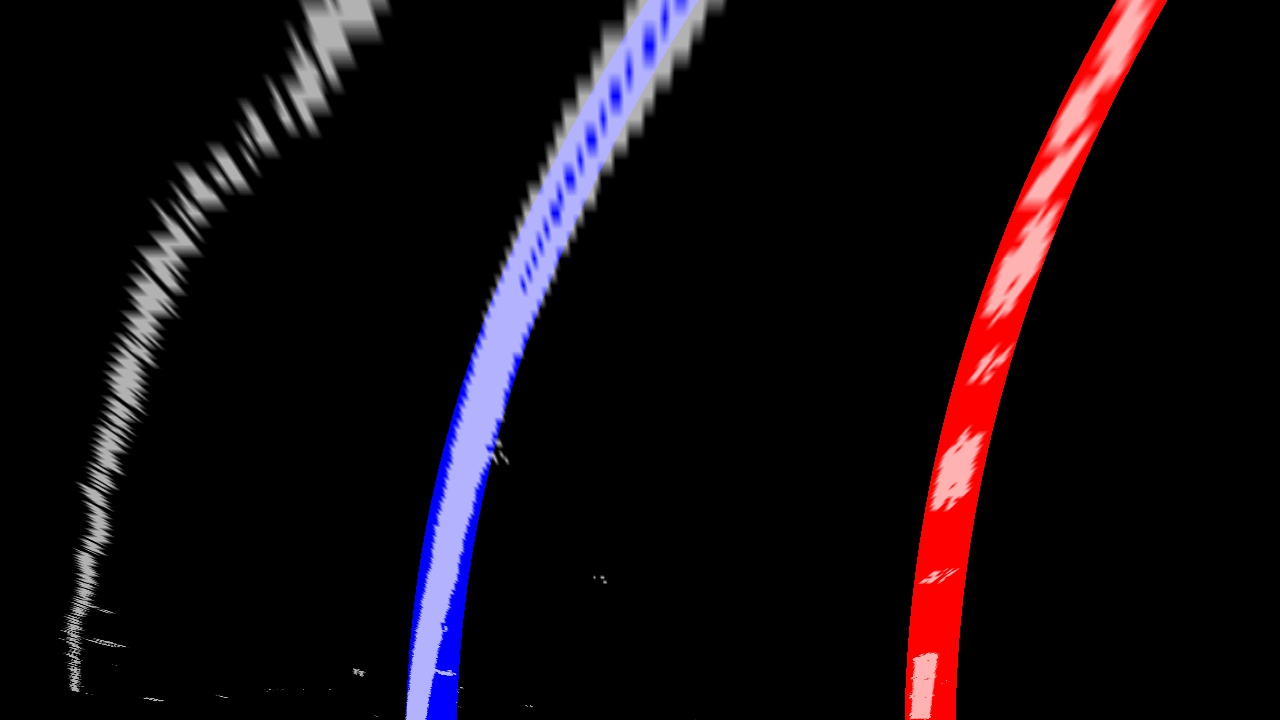
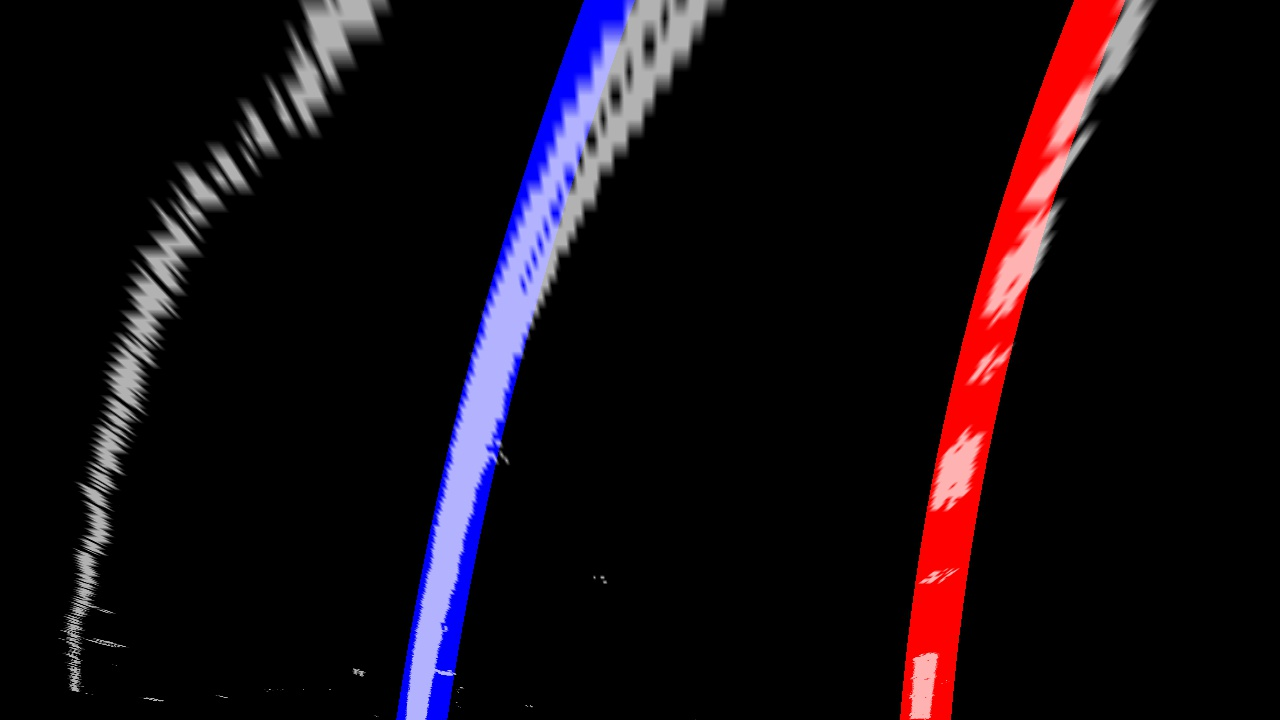
Reduced window margin for images

diff --git a/ImageGenerator.py b/ImageGenerator.py
@@ -90,7 +90,7 @@ def undistort(image, mtx, dist):
     return result
 
 # Color a and gradient thresholding    
-def preprocess(image):
+def create_binary_image(image):
     preprocessImage = np.zeros_like(image[:,:,0])
     gradx = abs_sobel_select(image, orient='x', thresh=(12,255))
     grady = abs_sobel_select(image, orient='y', thresh=(25,255))
@@ -152,7 +152,8 @@ def get_left_right_centroids(recent_centers, image, window_size, margin=100, smo
     
     last_right = 0
     last_left = 0
-    
+    right_trend = 0
+    left_trend = 0
     # Move up
     for level in range(start_index,(int)(image.shape[0]/height)):
        
@@ -171,21 +172,28 @@ def get_left_right_centroids(recent_centers, image, window_size, margin=100, smo
         
         right_min_index = int(max(right_center+offset-margin, 0))
         right_max_index = int(min(right_center+offset+margin, image.shape[1]))
-        right_center = np.argmax(conv_signal[right_min_index:right_max_index])
-        right_confidence = conv_signal[right_center + right_min_index] # signal strength
-        right_center = right_center+right_min_index-offset
+        right_signal = conv_signal[right_min_index:right_max_index]
+        if right_signal.any():
+            right_center = np.argmax(right_signal)
+            right_confidence = conv_signal[right_center + right_min_index] # signal strength
+            right_center = right_center+right_min_index-offset
+        else:
+            right_confidence = 0
         
+        # Drop window if it has no pixels (detection failed)
         # Drop window if it has no pixels (detection  failed)
         if (right_confidence == 0):
-            right_center = last_right
+            right_center = last_right + right_trend
   
         if (left_confidence == 0):
-            left_center = last_left
+            left_center = last_left + left_trend
                         
-        centroids.append((left_center,right_center))
-        
+        right_trend = right_center - last_right 
+        left_trend = left_center - last_left                    
         last_right =  right_center
         last_left = left_center
+        
+        centroids.append((left_center,right_center))
     
     recent_centers.append(centroids)
     
@@ -308,7 +316,6 @@ def annotate_results(image, camera_center, dpm, curve_radii):
     cv2.putText(image, 'Camera: '+str(abs(round(center_diff,3)))+'m ('+ side_pos +' of center)', 
                 (50,100), cv2.FONT_HERSHEY_SIMPLEX,1,(255,255,255),2)
 
-# Build the image pipelines            
 def main():
     dest_pickle = pickle.load( open("camera_cal/wide_dist_pickle.p", "rb"  ))
     mtx = dest_pickle["mtx"]
@@ -322,7 +329,7 @@ def main():
         #Debug point
         cv2.imwrite('./output_images/undistorted' + str(idx) + '.jpg', image)
         
-        preprocessed = preprocess(image)
+        preprocessed = create_binary_image(image)
         
         #Debug point
         cv2.imwrite('./output_images/preprocessed' + str(idx) + '.jpg', preprocessed)
@@ -333,7 +340,7 @@ def main():
         cv2.imwrite('./output_images/warped' + str(idx) + '.jpg', warped)
         
         window_size = (50,80)     # Obtained empirically
-        window_centroids = get_left_right_centroids([], warped, window_size)
+        window_centroids = get_left_right_centroids([], warped, window_size, margin=25)
         
         #Debug point   
         tracked = draw_visual_debug(warped, window_centroids, window_size) 
